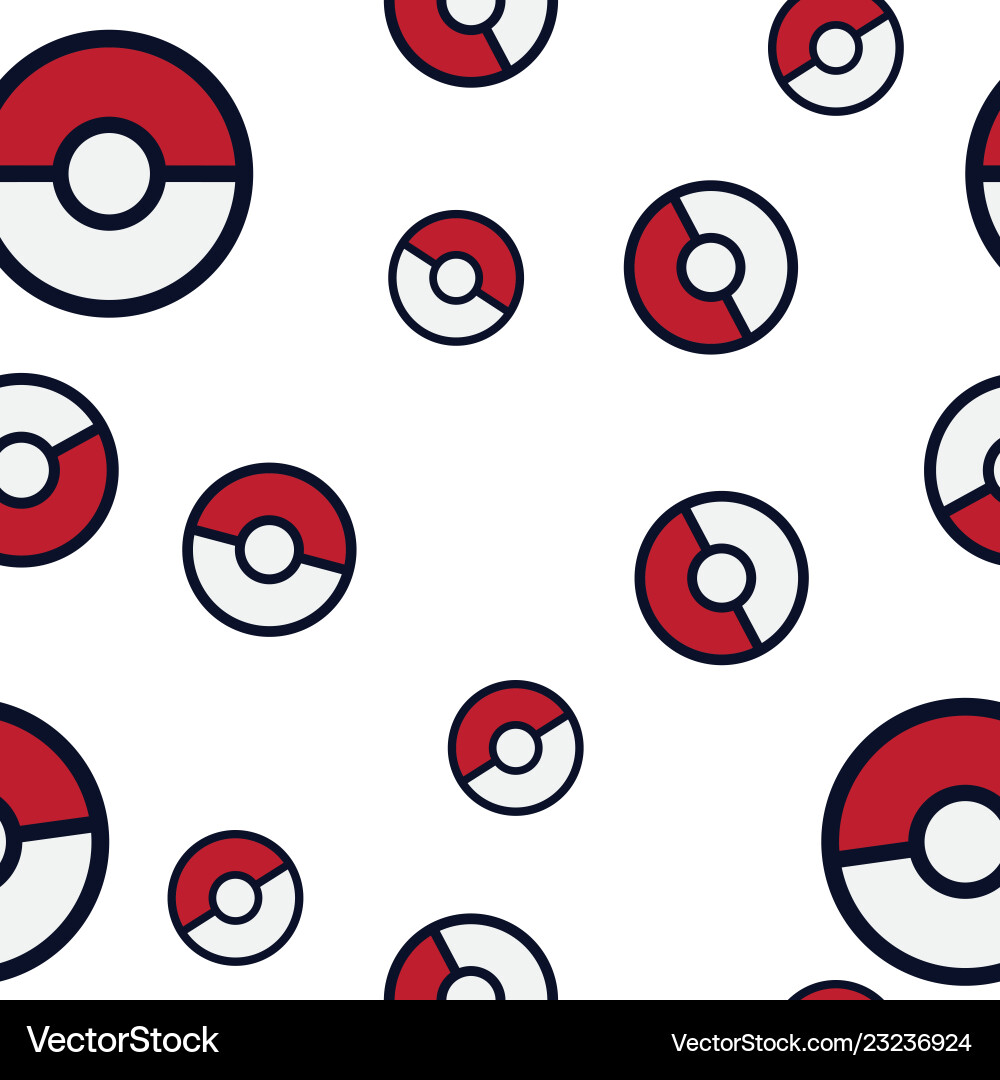
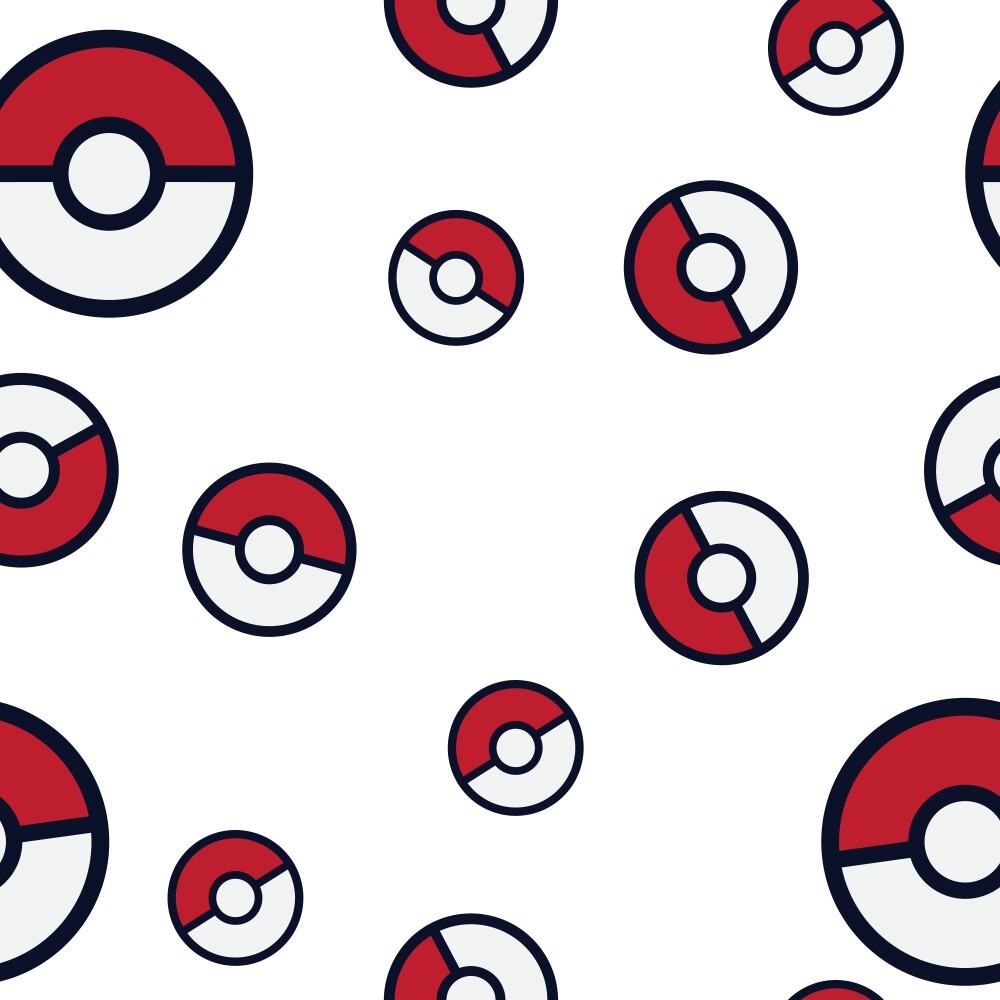
New Colors

diff --git a/poke/src/pages/PokemonData.jsx b/poke/src/pages/PokemonData.jsx
@@ -166,41 +166,41 @@ function PokemonData() {
     function TypeColor(typename){
         switch(typename){
             case "grass":
-                return "bg-[#7AC74C] uppercase drop-shadow-lg before:content-grass h-min"
+                return "bg-[#7AC74C] uppercase drop-shadow-lg before:content-grass "
             case "poison":
-                return "bg-[#A33EA1] uppercase drop-shadow-lg before:content-poison h-min"
+                return "bg-[#A33EA1] uppercase drop-shadow-lg before:content-poison "
             case "fire":
-                return "bg-[#EE8130] uppercase drop-shadow-lg before:content-fire h-min"
+                return "bg-[#EE8130] uppercase drop-shadow-lg before:content-fire "
             case "normal":
-                return "bg-[#A8A77A] uppercase drop-shadow-lg before:content-normal h-min"
+                return "bg-[#A8A77A] uppercase drop-shadow-lg before:content-normal "
             case "water":
-                return "bg-[#6390F0] uppercase drop-shadow-lg before:content-water h-min"
+                return "bg-[#6390F0] uppercase drop-shadow-lg before:content-water "
             case "electric":
-                return "bg-[#F7D02C] uppercase drop-shadow-lg before:content-electric h-min"
+                return "bg-[#F7D02C] uppercase drop-shadow-lg before:content-electric "
             case "ice":
-                 return "bg-[#96D9D6] uppercase drop-shadow-lg before:content-ice h-min"
+                 return "bg-[#96D9D6] uppercase drop-shadow-lg before:content-ice "
             case "fighting":
-                 return "bg-[#C22E28] uppercase drop-shadow-lg before:content-fighting h-min"
+                 return "bg-[#C22E28] uppercase drop-shadow-lg before:content-fighting "
             case "ground":
-                 return "bg-[#E2BF65] uppercase drop-shadow-lg before:content-ground h-min"
+                 return "bg-[#E2BF65] uppercase drop-shadow-lg before:content-ground "
             case "flying":
-                return "bg-[#A98FF3] uppercase drop-shadow-lg before:content-flying h-min"
+                return "bg-[#A98FF3] uppercase drop-shadow-lg before:content-flying "
             case "psychic":
-                return "bg-[#F95587] uppercase drop-shadow-lg before:content-psychic h-min"
+                return "bg-[#F95587] uppercase drop-shadow-lg before:content-psychic "
             case "bug":
-                return "bg-[#A6B91A] uppercase drop-shadow-lg before:content-bug h-min"
+                return "bg-[#A6B91A] uppercase drop-shadow-lg before:content-bug "
             case "rock":
-                return "bg-[#B6A136] uppercase drop-shadow-lg before:content-rock h-min"
+                return "bg-[#B6A136] uppercase drop-shadow-lg before:content-rock "
             case "ghost":
-                return "bg-[#735797] uppercase drop-shadow-lg before:content-ghost h-min"
+                return "bg-[#735797] uppercase drop-shadow-lg before:content-ghost "
             case "dragon":
-                return "bg-[#6F35FC] uppercase drop-shadow-lg before:content-dragon h-min"
+                return "bg-[#6F35FC] uppercase drop-shadow-lg before:content-dragon "
             case "dark":
-                return "bg-[#705746] uppercase drop-shadow-lg before:content-dark h-min"
+                return "bg-[#705746] uppercase drop-shadow-lg before:content-dark "
             case "steel":
-                return "bg-[#B7B7CE] uppercase drop-shadow-lg before:content-steel h-min"
+                return "bg-[#B7B7CE] uppercase drop-shadow-lg before:content-steel "
             case "fairy":
-                return "bg-[#D685AD] uppercase drop-shadow-lg before:content-fairy h-min"
+                return "bg-[#D685AD] uppercase drop-shadow-lg before:content-fairy "
         }
     }
     
@@ -325,14 +325,14 @@ function PokemonData() {
 
     return ( 
         // Fix the background img 
-        <div className=" relative p-10 " > {/* div 1*/}
+        <div className=" relative p-10 bg-pokemon-rep" > {/* div 1*/}
         <div className="w-full h-full bg-pokemon-rep bg-repeat blur-sm"></div>
              
             {pokedata && (
                 <div className="">   {/* div 2*/}
                 
             
-                    <div className="flex justify-center mt-6 rounded-2xl bg-slate-200 mx-auto">
+                    <div className="flex justify-center mt-6 rounded-2xl bg-white border-black border-4 mx-auto w-3/4">
                         <h2 className="font-sans my-auto txt-blacks text-5xl font-semibold">{capitalizeFirstLetter(pokedata.name)}</h2>
                             <svg className="cursor-pointer mt-5" onClick={Playaudio} xmlns="http://www.w3.org/2000/svg" viewBox="0 0 485 485" width="20" height="20">
                                 <path fill="#000000" d="M282.5,55.15c-33.5,0-66.3,8.9-95,25.8c-25.6,15.1-47.3,36.1-63.2,61.1H52.7c-29.1,0-52.7,23.6-52.7,52.7v95.5
@@ -352,8 +352,7 @@ function PokemonData() {
 
                         <ul className="flex">
                                 {pokedata.types.map((type, index) => (
-                            <li key={index} className={` ${TypeColor(type.type.name)} cursor-pointer font  align-middle mx-2 p-4 bg-lg h-14  text-white rounded-sm
-                                `}>
+                            <li key={index} className={` ${TypeColor(type.type.name)} cursor-pointer font align-middle mx-3 p-4 my-3 w-20 text-white rounded-sm h-24 font-semibold text-md `}>
                                 {type.type.name}
                             </li>
                                         ))}
@@ -364,20 +363,20 @@ function PokemonData() {
                 <div className="flex justify-center">
                     <div className="flex justify-between">
                         
-                         <div className= "flex flex-col bg-slate-200 p-10 mt-5 w-full">
+                         <div className= "flex flex-col bg-white border-black border-4 p-10 mt-5 w-full rounded-2xl">
                            
 
-                                <div className="  mt-16 w-fit mr-auto ml-auto">
-                                    <div className=" h-full  bg-slate-800 bo rounded-3xl border-8  ">
+                                <div className="  mt-4 w-fit mr-auto ml-auto">
+                                    <div className=" h-full  bg-slate-800 bo rounded-3xl border-8 border-red-600 ">
                                         <img className=" h-96 animate-bounce  " src={`https://raw.githubusercontent.com/PokeAPI/sprites/master/sprites/pokemon/other/official-artwork/${pokedata.id}.png` } alt="Pokemon Image"/>
                                     </div>
                                 </div>
 
 
-                            <div className="">
-                                <div className="pl-4 bg-slate-300">
+                            <div className="mt-4">
+                                <div className="pl-4 py-2 bg-white rounded-2xl border-red-600 border-2">
                                     <h1 className=" text-center font-bold text-2xl">PokeMon #<span>{pokedata.id}</span></h1>
-                                    <p className="font-bold">Height: {heightConver(pokedata.height)}</p>
+                                    <p className=" font-bold">Height: {heightConver(pokedata.height)}</p>
                                     <p className="font-bold">Weight: {weightConver(pokedata.weight)}</p>
                                 </div>
                             </div>
@@ -388,7 +387,7 @@ function PokemonData() {
 
                                         <ul>
                                             {abilityDes.map((ability, index) => (
-                                                <div key={index} className="mt-6 overflow-x-auto bg-slate-300">
+                                                <div key={index} className="mt-6 overflow-x-auto bg-white border-red-600 border-2">
                                                     <table className="table-md ">
                                                         <thead className=""> 
                                                             <tr className=" flex justify-evenly">
@@ -396,13 +395,13 @@ function PokemonData() {
                                                         </thead>
                                                         <tbody>
                                                         <tr>
-                                                            <th>Name:</th>
-                                                            <td>{capitalizeFirstLetter(ability.name)}</td>
+                                                            <th className="text-xl">Name:</th>
+                                                            <td className="text-red-600 text-xl">{capitalizeFirstLetter(ability.name)}</td>
                                                         </tr>
                                                                                         
                                                         <tr>
-                                                        <th>Description:</th>
-                                                            <td className="">{ability.description}</td>
+                                                        <th className="text-xl">Description:</th>
+                                                            <td className="text-lg">{ability.description}</td>
                                                             </tr>
                                                             </tbody>
                                                         </table>
@@ -439,13 +438,13 @@ function PokemonData() {
           
 
 
-                
-                    
-                        <div className=" my-10 pb-4 bg-slate-200">
-                                <div className="">
-                                    <p className="font-bold h-12 ">Stats:</p>
+                                    
+                    <div className="flex justify-center items-center h-auto">
+                        <div className=" flex flex-col items-center my-10 pb-4 rounded-xl bg-white border-4 border-black w-1/2">
+                                <div className=" mt-3 justify-center bg-white h-20 w-28">
+                                    <p className="mt-6 font-bold text-3xl text-center text-black">Stats</p>
                                 </div>
-                                    <ul className="w-60">
+                                    <ul className="flex flex-col  space-y-3 w-60 p-1 border-4 border-red-600  mb-5">
                                         {pokedata.stats.map((stat, index) => (   
                                         <div key={index} className="">
                                             <strong className="" >
@@ -461,8 +460,9 @@ function PokemonData() {
                                             ))}
                                     </ul> 
                         </div>
+                    </div>
                             {/* i changed the sm vp now chaange other while i style the tabke cuz it looks wack asf */}
-                        <div className=" lg:flex justify-around px-20  xl:px-1 pt-10 py-10 ">                     
+                        <div className=" lg:flex justify-around px-20  xl:px-1 pt-10 py-10 bg-white border-4 border-black rounded-xl">                     
                             <div className=" max-h-[910px] sm:mb-5 overflow-y-auto overflow-x sm-w-[400px] border-black border-8"> 
                                 <p className="font-bold  text-3xl  text-center text-white bg-black py-3">Pokemon Moves Overview </p>
                                     <table className="table-auto min-w-full bg-zinc-900">
@@ -495,7 +495,7 @@ function PokemonData() {
                             {evoPoke && (
                                     <ul className="md-32 timeline timeline-vertical">
                                         <li>
-                                            <p className="font-bold text-3xl  text-center">Evloutions </p>
+                                            <p className="font-bold text-3xl  text-center mb-4">Evloutions </p>
                                             <div className="timeline-start">1st Evo</div>
                                             <div className="timeline-middle">
                                                 <svg xmlns="http://www.w3.org/2000/svg" viewBox="0 0 20 20" fill="currentColor" className="w-5 h-5"><path fillRule="evenodd" d="M10 18a8 8 0 100-16 8 8 0 000 16zm3.857-9.809a.75.75 0 00-1.214-.882l-3.483 4.79-1.88-1.88a.75.75 0 10-1.06 1.061l2.5 2.5a.75.75 0 001.137-.089l4-5.5z" clipRule="evenodd" /></svg>
@@ -504,7 +504,7 @@ function PokemonData() {
                                             <div className="timeline-end timeline-box">{capitalizeFirstLetter(pokedata.name)}</div>
                                             <hr/>
                                         </li>
-                                        <div className="transition-all ease-in-out group border hover:border-8 hover:border-blue-300   flex justify-center align-middle h-60 w-52 rounded-full  bg-slate-800  hover:bg-blue-600 mx-auto"> 
+                                        <div className="transition-all ease-in-out group border hover:border-8 hover:border-black   flex justify-center align-middle h-60 w-52 rounded-full  bg-slate-800  hover:bg-red-500 mx-auto"> 
                                             <div className=" group-hover:shadow-blue-500/40 justify-center transition-all ease-in-out duration-200 ">
                                                 <img className="pt-3 transition-all ease-in-out duration-200 hover:rotate-12 hover:scale-125 " src={`https://raw.githubusercontent.com/PokeAPI/sprites/master/sprites/pokemon/other/official-artwork/${pokedata.id}.png` } alt="Pokemon Image"/>
                                             </div>
@@ -521,7 +521,7 @@ function PokemonData() {
                                             </div>
                                             <hr/>
                                         </li>
-                                                <div className=" transition-all ease-in-out group border hover:border-8 hover:border-blue-300   flex justify-center align-middle h-60 w-52 rounded-full  bg-slate-800  hover:bg-blue-600 mx-auto">
+                                                <div className=" transition-all ease-in-out group border hover:border-8 hover:border-black   flex justify-center align-middle h-60 w-52 rounded-full  bg-slate-800  hover:bg-red-500 mx-auto">
                                                     <div className="group-hover:shadow-blue-500/40 justify-center transition-all ease-in-out duration-200 ">
                                                         <img className="pt-3 transition-all ease-in-out duration-200 hover:rotate-12 hover:scale-125" src={`https://raw.githubusercontent.com/PokeAPI/sprites/master/sprites/pokemon/other/official-artwork/${pokedata.id + 1}.png` } alt="Pokemon Image"/>
                                                     </div>
@@ -538,7 +538,7 @@ function PokemonData() {
                                             </div>
                                             <hr/>
                                         </li>
-                                                <div className="transition-all ease-in-out group border hover:border-8 hover:border-blue-300   flex justify-center align-middle h-60 w-52 rounded-full  bg-slate-800  hover:bg-blue-600 mx-auto">
+                                                <div className="transition-all ease-in-out group border hover:border-8 hover:border-black   flex justify-center align-middle h-60 w-52 rounded-full  bg-slate-800  hover:bg-red-500 mx-auto">
                                                     <div className="  group-hover:shadow-blue-500/40 justify-center transition-all ease-in-out duration-200">
                                                         <img className="pt-3 transition-all ease-in-out duration-200 hover:rotate-12 hover:scale-125" src={`https://raw.githubusercontent.com/PokeAPI/sprites/master/sprites/pokemon/other/official-artwork/${pokedata.id + 2}.png` } alt="Pokemon Image"/>
                                                     </div>

diff --git a/poke/src/Example/Example.jsx b/poke/src/Example/Example.jsx
@@ -139,20 +139,20 @@ function Example({setpokeData}) {
                         <div className="flex justify-end flex-1 px-2">
                             <div className="flex items-stretch">
                                 <div className="dropdown dropdown-end">
-                                    <div tabIndex={0} role="button" className="text-xl btn btn-ghost rounded-btn text-slate-50 ">Filter</div>
+                                    <div tabIndex={0} role="button" className="text-4xl btn btn-ghost rounded-btn text-slate-50 ">Filter</div>
                                     <div tabIndex={0} className="menu dropdown-content z-[1] p-2 shadow bg-base-100 rounded-box w-52 h-50 mt-2">
                                     
-                                        <div class="flex flex-col space-y-4">
-                                            <button class="bg-blue-500 hover:bg-blue-700 text-white font-bold py-2 px-4 rounded">
+                                        <div className="flex flex-col space-y-4">
+                                            <button className="bg-blue-500 hover:bg-blue-700 text-white font-bold py-2 px-4 rounded">
                                                 Types
                                             </button>
-                                            <button class="bg-blue-500 hover:bg-blue-700 text-white font-bold py-2 px-4 rounded">
+                                            <button className="bg-blue-500 hover:bg-blue-700 text-white font-bold py-2 px-4 rounded">
                                                 Lowest #
                                             </button>
-                                            <button class="bg-blue-500 hover:bg-blue-700 text-white font-bold py-2 px-4 rounded">
+                                            <button className="bg-blue-500 hover:bg-blue-700 text-white font-bold py-2 px-4 rounded">
                                                 Highest #
                                             </button>
-                                            <button class="bg-blue-500 hover:bg-blue-700 text-white font-bold py-2 px-4 rounded">
+                                            <button className="bg-blue-500 hover:bg-blue-700 text-white font-bold py-2 px-4 rounded">
                                                 Types
                                             </button>
                                         </div>

diff --git a/poke/tailwind.config.js b/poke/tailwind.config.js
@@ -13,7 +13,7 @@ export default {
     },
     extend: {
       backgroundImage: theme => ({
-        'pokemon-rep': "url('./bg-img/pokemon-ball.jpg')",
+        'pokemon-rep': "url('./bg-img/rep2.jpg')",
       }), 
       content:{
         'grass' : 'url("./type/grass.svg")',
